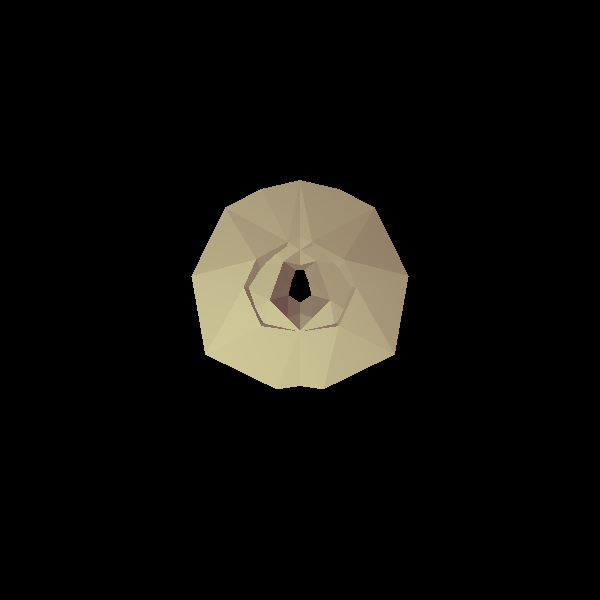
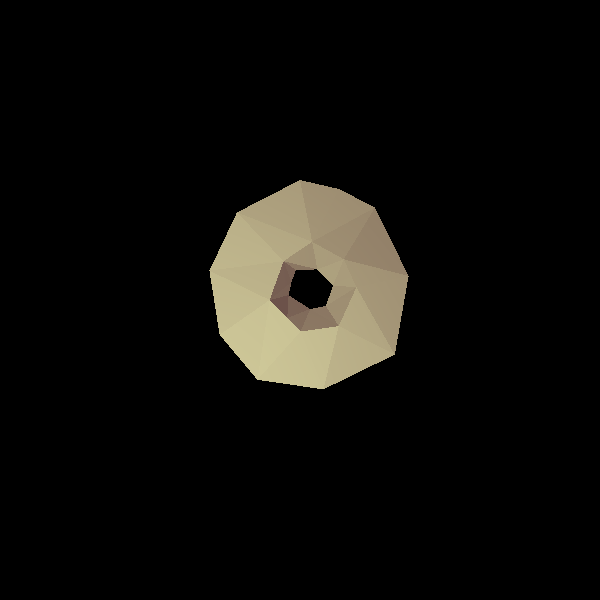
start understanding picture

diff --git a/unitTests/MiniProj1/hotAirBaloon.java b/unitTests/MiniProj1/hotAirBaloon.java
@@ -15,8 +15,7 @@ import renderer.ImageWriter;
 import renderer.RayTracerBasic;
 import scene.Scene;
 
-import static java.awt.Color.WHITE;
-import static java.awt.Color.yellow;
+import static java.awt.Color.*;
 
 public class hotAirBaloon {
 
@@ -63,32 +62,33 @@ public class hotAirBaloon {
 
 
 
+/*
 
         Camera camera = new Camera(new Point(0, 0, 1000), new Vector(0, 0, -1), new Vector(0, 1, 0)) //
                 .setVPSize(200, 200).setVPDistance(1000);
 
 
-        /*
-        Camera camera = new Camera(new Point(1000, 0, 0), new Vector(-1, 0, 0), new Vector(0, 0, -1))
-                .setVPSize(200, 200)
-                .setVPDistance(1000);
+ */
 
-         */
+        Camera camera = new Camera(new Point(0, 0, 1000), new Vector(0, 0, -1), new Vector(0, 1, 0)) //
+                .setVPSize(200, 200).setVPDistance(1000);
+
+
         Scene scene4 = new Scene.SceneBuilder("Test scene").setAmbientLight(new AmbientLight(new Color(WHITE), 0.15)).build();
 
 
         scene4.geometries.add( //
 
-                T1.setMaterial(new Material().setkD(0.5).setkS(0.5).setnShininess(100)).setEmission(new Color(50, 0, 20)), //
+                //T1.setMaterial(new Material().setkD(0.5).setkS(0.5).setnShininess(100)).setEmission(new Color(50, 0, 20)), //
 
-                T2.setMaterial(new Material().setkD(0.5).setkS(0.5).setnShininess(100)).setEmission(new Color(0, 20, 20)), //
+                //T2.setMaterial(new Material().setkD(0.5).setkS(0.5).setnShininess(100)).setEmission(new Color(0, 20, 20)), //
 
-                T3.setMaterial(new Material().setkD(0.5).setkS(0.5).setnShininess(100)).setEmission(new Color(50, 20, 0)), //
+                //T3.setMaterial(new Material().setkD(0.5).setkS(0.5).setnShininess(100)).setEmission(new Color(50, 20, 0)), //
 
-                T4.setMaterial(new Material().setkD(0.5).setkS(0.5).setnShininess(100)).setEmission(new Color(50, 10, 20)), //
+                //T4.setMaterial(new Material().setkD(0.5).setkS(0.5).setnShininess(100)).setEmission(new Color(50, 10, 20)), //
 
 
-                T5.setMaterial(new Material().setkD(0.5).setkS(0.5).setnShininess(100)).setEmission(new Color(40, 20, 20)), //
+                //T5.setMaterial(new Material().setkD(0.5).setkS(0.5).setnShininess(100)).setEmission(new Color(40, 20, 20)), //
 
                 T6.setMaterial(new Material().setkD(0.5).setkS(0.5).setnShininess(100)).setEmission(new Color(50, 20, 30)), //
 
@@ -112,7 +112,7 @@ public class hotAirBaloon {
  */
 
         scene4.lights.add(
-                new SpotLight(new Color(40,0,100),
+                new SpotLight(new Color(40000,0,100),
                         new Point(0,10,30),
                         new Vector(0,1,10)) //
                         .setKl(1E-5).setKq(1.5E-7)
@@ -132,5 +132,115 @@ public class hotAirBaloon {
                 .renderImage() //
                 .writeToImage();
     }
+    @Test
+    public void air() {
+        Camera camera = new Camera(
+                new Point(0, 0, 1000),
+                new Vector(0, 0, -1),
+                new Vector(0, 1, 0)) //
+                .setVPSize(150, 150)
+                .setVPDistance(1000);
+        Scene scene4 = new Scene.SceneBuilder("Test scene").setAmbientLight(new AmbientLight(new Color(WHITE), 0.15)).setBackground(new Color(135, 206, 250)).build();
+        double k = 12; // Scaling factor
+
+        Point A = new Point(-1.34 * k, 0.74 * k, 0 * k);
+
+        Point B = new Point(-1.34* k, -1.1 * k, 0 * k);
+        Point C = new Point(-1.34 * k, 1.5 * k, 1.72 * k);
+        Point D = new Point(-1.41 * k, -1.44 * k, 1.72 * k);
+        Point F = new Point(-2.31 * k, 0.85 * k, 2 * k);
+        Point G = new Point(-1.83 * k, -0.85 * k, 2 * k);
+        Point sideLeft1=new Point(-35,24,-50);
+        Point sideLeft2=new Point(-34.5,24,-50);
+
+        Point right1=new Point(35,24,-50);
+        Point right2=new Point(34.5,24,-50);
+        Point rLittle1=new Point(14.5,-3,-50);
+        Point rLittle2=new Point(14,-3,-50);
+        Point lLittle1=new Point(-14,-3,-50);
+        Point lLittle2=new Point(-14.5,-3,-50);
+
+        A=new Point(A.getY(),A.getZ()-50,A.getX());
+        B=new Point(B.getY()+3,B.getZ()-50,B.getX());
+
+        C=new Point(C.getY()-2,C.getZ()-50,C.getX());
+        Point C1=new Point(C.getX()-0.5,C.getY(),C.getZ());
+        Point C2=new Point(C.getX(),C.getY(),C.getZ());
+
+        D=new Point(D.getY(),D.getZ()-50,D.getX());
+        Point D1=new Point(D.getX()+0.5,D.getY(),D.getZ());
+
+        F=new Point(F.getY(),F.getZ()-50, F.getX());
+        Point F1=new Point(F.getX()-0.5,F.getY(),F.getZ());
+        Point FBorder=new Point(F.getX(),F.getY()+0.5,F.getZ());
+
+        G=new Point(G.getY(),G.getZ()-50, G.getX());
+        Point G1=new Point(G.getX()+0.5,G.getY(),G.getZ());
+        Point GBorder=new Point(G.getX(),G.getY()+0.5,G.getZ());
+
+
+        //FRONT RIGHT
+        Triangle T1 = new Triangle(C,A,D);
+        //FRONT LEFT
+        Triangle T2 = new Triangle(A,D,B);
+        Triangle T3 = new Triangle(C,F,D);
+        Triangle T4 = new Triangle(F,G,D);
+
+        Triangle L1=new Triangle(sideLeft1,sideLeft2,D1);
+        Triangle L2=new Triangle(D1,D,sideLeft2);
+        Triangle R1=new Triangle(right1,right2,C2);
+        Triangle R2=new Triangle(C1,right2,C2);
+        Triangle rLittle1T=new Triangle(F,F1,rLittle1);
+        Triangle rLittle2T=new Triangle(rLittle2,F1,rLittle1);
+        Triangle lLittle1T=new Triangle(lLittle1,lLittle2,G1);
+        Triangle lLittle2T=new Triangle(G,G1,lLittle2);
+        Triangle borderR1=new Triangle(C,C1,F);
+        Triangle borderR2=new Triangle(F1,C1,F);
+        Triangle borderL1=new Triangle(G,G1,D1);
+        Triangle borderL2=new Triangle(G,D,D1);
+        Triangle borderBack1=new Triangle(G,GBorder,F);
+        Triangle borderBack2=new Triangle(F,FBorder,GBorder);
+
+
+
+
+
+        scene4.geometries.add( //
+                T1.setMaterial(new Material().setkD(0.5).setkS(0.5).setnShininess(100)).setEmission(new Color(500, 20, 30)), //
+
+                T2.setMaterial(new Material().setkD(0.5).setkS(0.5).setnShininess(100)).setEmission(new Color(520, 40, 50)), //
+                T3.setMaterial(new Material().setkD(0.5).setkS(0.5).setnShininess(100)).setEmission(new Color(550, 70, 80)), //
+                T4.setMaterial(new Material().setkD(0.5).setkS(0.5).setnShininess(100)).setEmission(new Color(500, 20, 30)),
+                L1.setMaterial(new Material().setkD(0.5).setkS(0.5).setnShininess(100)).setEmission(new Color(WHITE)),
+                L2.setMaterial(new Material().setkD(0.5).setkS(0.5).setnShininess(100)).setEmission(new Color(WHITE)),
+                R1.setMaterial(new Material().setkD(0.5).setkS(0.5).setnShininess(100)).setEmission(new Color(WHITE)),
+                R2.setMaterial(new Material().setkD(0.5).setkS(0.5).setnShininess(100)).setEmission(new Color(WHITE)),
+                borderR1.setMaterial(new Material().setkD(0.5).setkS(0.5).setnShininess(100)).setEmission(new Color(BLACK)), //
+                borderR2.setMaterial(new Material().setkD(0.5).setkS(0.5).setnShininess(100)).setEmission(new Color(BLACK)), //
+                borderL1.setMaterial(new Material().setkD(0.5).setkS(0.5).setnShininess(100)).setEmission(new Color(BLACK)), //
+                borderL2.setMaterial(new Material().setkD(0.5).setkS(0.5).setnShininess(100)).setEmission(new Color(BLACK)), //
+                borderBack1.setMaterial(new Material().setkD(0.5).setkS(0.5).setnShininess(100)).setEmission(new Color(BLACK)), //
+                borderBack2.setMaterial(new Material().setkD(0.5).setkS(0.5).setnShininess(100)).setEmission(new Color(BLACK)), //
+                rLittle1T.setMaterial(new Material().setkD(0.5).setkS(0.5).setnShininess(100)).setEmission(new Color(WHITE)),
+                rLittle2T.setMaterial(new Material().setkD(0.5).setkS(0.5).setnShininess(100)).setEmission(new Color(WHITE)),
+                lLittle1T.setMaterial(new Material().setkD(0.5).setkS(0.5).setnShininess(100)).setEmission(new Color(WHITE)),
+                lLittle2T.setMaterial(new Material().setkD(0.5).setkS(0.5).setnShininess(100)).setEmission(new Color(WHITE)),
+
+                new Sphere(new Point(0, 28, -50), 35d)
+                        .setEmission(new Color(150, 0, 0)) //
+                        .setMaterial(new Material().setkD(0.3).setkS(0.05).setnShininess(100).setkT(0.3))
+
+                );
+        scene4.lights.add(new  SpotLight(new Color(500, 600, 400),
+                        new Point(-100, -100, 500),
+                        new Vector(-1, -1, -2)) //
+                        .setKl(0.0004).setKq(0.0000006));
+        ImageWriter imageWriter = new ImageWriter("TRY", 600, 600);
+        camera.setImageWriter(imageWriter) //
+                .setRayTracer(new RayTracerBasic(scene4)) //
+                .renderImage() //
+                .writeToImage();
+    }
+
 
 }

diff --git a/unitTests/MiniProj1/donuts.java b/unitTests/MiniProj1/donuts.java
@@ -252,7 +252,7 @@ public class donuts {
 
                 new Triangle(T,U,O) //
                         .setMaterial(new Material().setkD(0.5).setkS(0.5).setnShininess(100)).setEmission(new Color(50, 20, 20)));
-        A = new Point(-A.getX(), A.getY(), A.getZ());
+       /* A = new Point(-A.getX(), A.getY(), A.getZ());
         B = new Point(-B.getX(), B.getY(), B.getZ());
         C = new Point(-C.getX(), C.getY(), C.getZ());
         D = new Point(-D.getX(), D.getY(), D.getZ());
@@ -279,6 +279,8 @@ public class donuts {
         A1 = new Point(-A1.getX(), A1.getY(), A1.getZ());
 
 
+
+        */
         scene4.geometries.add( //
 
                 new Triangle(D, L, E) //
